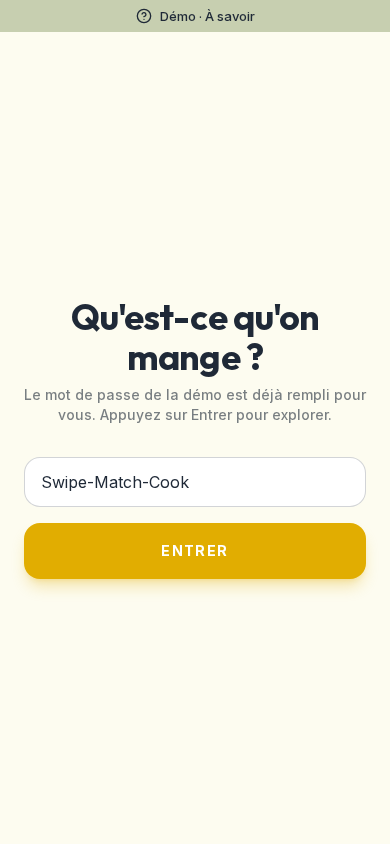
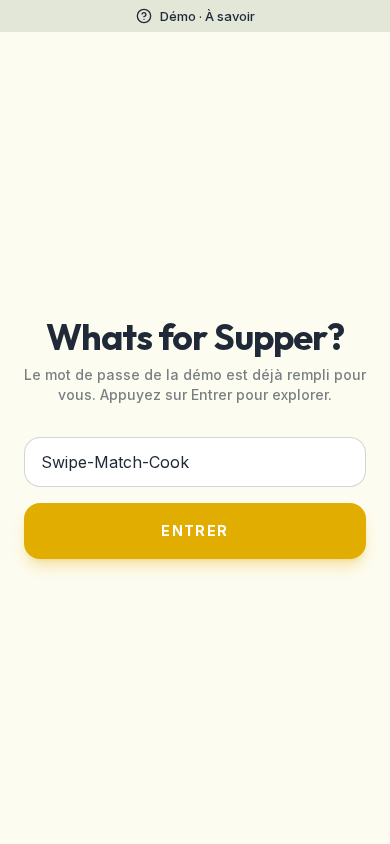
fix: preserve app name in English and French entry headings

Changed region(s): [[0.0615, 0.3389, 0.9538, 0.7085], [0.0, 0.0, 1.0, 0.0616], [0.9231, 0.5237, 0.9538, 0.5545]]

diff --git a/pwa/src/app/(auth)/welcome/page.test.tsx b/pwa/src/app/(auth)/welcome/page.test.tsx
@@ -20,6 +20,7 @@ vi.mock('@/lib/auth', () => ({
   setHearthCookie: mocks.cookie,
 }));
 import WelcomePage from './page';
+import LandingPage from '../../page';
 import { InstallIdentityProvider } from '@/components/identity/IdentityHint';
 import { LocaleProvider, useLocale } from '@/components/common/LocaleProvider';
 import { useDemoContextVisit } from '@/store/demoContextStore';
@@ -59,6 +60,22 @@ beforeEach(() => {
   };
 });
 afterEach(() => vi.unstubAllEnvs());
+
+describe('entry branding', () => {
+  it.each(['en', 'fr'])('keeps the exact app name on landing and Welcome in %s', async (locale) => {
+    localStorage.setItem('locale', locale);
+    const landing = render(<LandingPage />);
+    expect(screen.getByRole('heading', { level: 1, name: 'Whats for Supper?' })).toBeVisible();
+    landing.unmount();
+    await welcome();
+    expect(screen.getByRole('heading', { level: 1, name: 'Whats for Supper?' })).toBeVisible();
+    expect(screen.getByTestId('welcome-helper')).toHaveTextContent(
+      locale === 'en'
+        ? 'The demo passphrase is filled in for you. Tap Enter to explore.'
+        : 'Le mot de passe de la démo est déjà rempli pour vous. Appuyez sur Entrer pour explorer.'
+    );
+  });
+});
 
 describe('Welcome public prefill', () => {
   it('uses server identity despite browser non-demo health, with no automatic authentication', async () => {

diff --git a/pwa/e2e/install-identity.spec.ts b/pwa/e2e/install-identity.spec.ts
@@ -112,7 +112,7 @@ test('welcome identity renders with every backend request unavailable in light a
     await page.emulateMedia({ colorScheme });
     await page.goto('/welcome');
     await expect(page).toHaveTitle(name);
-    await expect(page.getByTestId('welcome-title')).toHaveText("What's For Supper?");
+    await expect(page.getByTestId('welcome-title')).toHaveText('Whats for Supper?');
     await expect(page.getByTestId('passphrase-input')).toBeVisible();
     const hint = page.getByTestId(demo ? 'demo-context-band' : 'identity-hint');
     if (variant === 'production') {
@@ -168,9 +168,7 @@ for (const locale of ['en', 'fr'] as const) {
         await page.goto(route);
         await expect(page).toHaveURL(new RegExp(`${route}$`));
         if (route === '/welcome') {
-          await expect(page.getByTestId('welcome-title')).toHaveText(
-            locale === 'fr' ? "Qu'est-ce qu'on mange ?" : "What's For Supper?"
-          );
+          await expect(page.getByTestId('welcome-title')).toHaveText('Whats for Supper?');
           await expect(page.getByTestId('passphrase-input')).toHaveValue('');
           await expect(page.getByTestId('welcome-enter-btn')).toBeDisabled();
         } else if (route === '/planner') {

diff --git a/pwa/e2e/welcome-demo.spec.ts b/pwa/e2e/welcome-demo.spec.ts
@@ -117,7 +117,12 @@ for (const locale of ['en', 'fr'] as const) {
       test.skip(!prefill, 'Public Demo visual/lifecycle matrix has its own server configuration');
       await page.setViewportSize({ width, height });
       await page.addInitScript((language) => localStorage.setItem('locale', language), locale);
+      await page.goto('/');
+      await expect(
+        page.getByRole('heading', { level: 1, name: 'Whats for Supper?', exact: true })
+      ).toBeVisible();
       await page.goto('/welcome');
+      await expect(page.getByTestId('welcome-title')).toHaveText('Whats for Supper?');
       await expect(page.getByTestId('passphrase-input')).toHaveValue('Swipe-Match-Cook');
       const helper =
         locale === 'en'

diff --git a/pwa/src/app/(auth)/welcome/WelcomeForm.tsx b/pwa/src/app/(auth)/welcome/WelcomeForm.tsx
@@ -58,7 +58,7 @@ export function WelcomeForm({ initialPassphrase }: { initialPassphrase: string |
         {!demo && <IdentityHint className="right-4 top-[calc(env(safe-area-inset-top)+1rem)]" />}
         <div className="text-center animate-in fade-in slide-in-from-bottom-4 duration-700">
           <h1 className="text-4xl font-bold text-indigo tracking-tight" data-testid="welcome-title">
-            {t('auth.welcomeTitle', "What's For Supper?")}
+            {t('auth.welcomeTitle', 'Whats for Supper?')}
           </h1>
           <p
             id="welcome-helper"

diff --git a/pwa/src/app/page.tsx b/pwa/src/app/page.tsx
@@ -14,7 +14,7 @@ export default function LandingPage() {
     <main className="flex min-h-dvh flex-col items-center justify-center gap-8 px-6 py-12">
       <div className="text-center">
         <h1 className="text-4xl font-bold text-indigo">
-          {t('landing.title', "What's for Supper?")}
+          {t('landing.title', 'Whats for Supper?')}
         </h1>
         <p className="mt-3 text-lg text-charcoal-400">
           {t('landing.subtitle', 'Capture recipes, plan your week, discover what to cook next.')}

diff --git a/openspec/changes/demo-experience-refinement/tasks.md b/openspec/changes/demo-experience-refinement/tasks.md
@@ -67,3 +67,19 @@ For this five-file planning PR, behavior red/green and runtime/device checks are
 - [x] 4.1 Add the household-only `Public Demo Welcome regression` step after the unchanged ordinary capability suite, reusing the existing optimized build and dedicated config. Scope `WFS_WELCOME_DEMO=true` and the deliberately public `WFS_WELCOME_SECRET=Swipe-Match-Cook` to that step. Use `--output=test-results/welcome-demo` so the public run preserves ordinary private-suite results. Protect step scope, artifact reuse, private job credential and output separation in the existing pipeline regression suite. Evidence: `task test:agent` first failed only the new missing-step assertion (203 tests, one expected failure, one existing skip), then passed (203 tests, one existing skip). Under the actual CI compile settings (`NEXT_PUBLIC_API_BASE_URL`/`API_INTERNAL_URL=http://127.0.0.1:5001`, household suite, existing feature flags), the existing `task test:e2e:ci -- --config=e2e/welcome-demo.playwright.config.ts --output=test-results/welcome-demo` qualification passed 14 tests with the one intentional public-run disclosure-negative skip. A marker and existing blob SHA proved private artifacts survived. Log: `/tmp/wfs-ci-public-runtime.log`. The workflow itself adds no build, backend/service, dependency, deployment or product behavior; the local verification rebuild only qualified the already-existing build path with CI's baked URL.
 
 This follow-up was explicitly requested by review to close the public-path CI gap. It changes only the existing validation workflow, its existing pipeline test, and these evidence documents. Application files and inspected screenshot bytes remain identical to implementation head `2f93ac8fda6f4b813323ef004068f2d78556296a`. The final four-path harness/documentation verifier record and new immutable CI head are recorded in the PR description after publication.
+
+## 4. Approved brand-title correction
+
+Alex explicitly confirmed `Whats for Supper?` (including the question mark) at 21:00 UTC on 2026-10-26. The French translations predate this PR; this is an approved focused correction, not a regression attributed to this implementation. Preserve PR #354's current ready-for-review state.
+
+- [x] 4.1 Set only EN/FR `landing.title` and `auth.welcomeTitle` plus their component fallbacks to `Whats for Supper?`. Update meaningful rendered-heading expectations first; preserve surrounding copy, ordinary French meal questions and all authentication behavior. Regenerate and inspect affected phone/iPad EN/FR screenshot evidence from an isolated optimized build, retain applicable Task/OpenSpec and final-head CI evidence below and in the same PR.
+
+Title-correction evidence: rendered EN/FR landing/Welcome tests first failed for the old heading (**2 failed, 18 passed**, `/tmp/wfs-brand-red.log`), then passed **20/20** (`/tmp/wfs-brand-green.log`). The first optimized build caught an unsupported RTL assertion option in the new test, which was corrected without product changes; the subsequent optimized public suite passed **14 with one intentional private-canary skip** (`/tmp/wfs-brand-browser.log`, build `79B2g68Sa5FQcieayRRMZ`). Both entry routes are asserted at all existing EN/FR viewport sizes. The existing private installation-identity suite passed **4/4** (`/tmp/wfs-brand-install.log`); its two affected Welcome-title expectations changed, while document metadata expectations stayed unchanged. All 12 regenerated raw phone/iPad captures were viewed. Final Task/CI results are recorded after frozen-content validation.
+
+First title-correction aggregate `.task/agent-finish/runs/c70dababbb484ab8943f7b98b6b55fb6.json` remains failed: .NET lint could not create its SDK toolpath sentinel under read-only `/home/agent/.dotnet`, and repository content identity changed after the unit cache warmed, so later checks were correctly left unrun. Strict OpenSpec (35/35), harness, formatting, types and 1,070 unit tests passed within that attempt. The SDK marker was initialized using scoped tooling permission. No freshness exemption or harness change is authorized or applied. The next aggregate uses unchanged application/image inputs, corrected evidence build-ID spelling and a single ADDED-requirements section.
+
+Final local title-correction aggregate: `.task/agent-finish/runs/b309393b6c514bf7943b194c6559ec8e.json` has **stable content**, and documentation, strict OpenSpec **35/35**, harness (**202 passed, one existing skip**), lint/format/types, **1,070 unit tests**, **1,249 API tests** (154 prerequisite/manual skips), Kiota/static contracts, isolated loopback endpoint parity and **178 PostgreSQL tests with zero skips** all passed. Database record: `.task/database-tests/runs/c606ce20188b426c9cf02ba2f538619d/result.json`; its disposable container and owned fixtures were removed. The reviewed per-command filesystem grant covered the SDK/test runners' own temporary home-directory paths; no repository configuration, HOME override, test/freshness rule or deployed credential changed.
+
+That aggregate remains **blocked**, not green: the broad development browser child hit its existing **900-second** limit after approximately **305/390** cases and was stopped without retry. Both long 126/180-recipe cycle cases passed (4.9/8.8 minutes). One existing cook-mode 375px case timed out before the limit while waiting for the ingredient toggle; its saved snapshot remained on Home. Its unchanged test then passed **first attempt, no retries, 4.3s** on the existing isolated optimized build using a temporary loopback config (`/tmp/wfs-brand-cook/qualification.config.ts`, `/tmp/wfs-brand-cook-qualified.log`). That qualifies the case in that runtime, not the full stopped browser child or a proven root cause. No cook-mode or harness fix was made. The full optimized suites remain required on the final published CI head before final acceptance.
+
+Only the generated Welcome unit transform (`pwa/node_modules/.vitest-cache/d1a85938bdaaa962eaf0841dcd56570c5d99e0ee`, whose source filename is Welcome's page test) and generated TypeScript build info were observed warming around the first aggregate; its exact original digest delta is not reconstructible. No source outside the explicit title/evidence path set changed. The second aggregate's content identity passed. Final documentation-only verification and immutable published-head/CI results are recorded in the PR description. PR #354's current ready-for-review state is preserved; no merge, deployment, spec sync or archive.

diff --git a/docs/evidence/demo-experience-refinement/README.md b/docs/evidence/demo-experience-refinement/README.md
@@ -11,7 +11,7 @@ These 12 captures were generated and actually inspected in this cloud task, usin
 | FR | 390×844 phone | [login](fr-phone-login.png) | [dialog](fr-phone-dialog.png) | [home](fr-phone-home.png) |
 | FR | 820×1180 iPad | [login](fr-ipad-login.png) | [dialog](fr-ipad-dialog.png) | [home](fr-ipad-home.png) |
 
-Built from main baseline `e680fb7966978da3fbde25453a241c7e69e2b2a1` plus this PR's implementation; isolated build ID `CqqR6qKjo65mS_2BmhhC5`. The build used Demo disabled and a synthetic nonpublic build credential; the same build ran with Demo enabled and the public constant. Subsequent runs used a synthetic custom secret and disabled Demo without rebuilding. Source control's baked release artifact remains stable; no deployment credentials were touched.
+Built from main baseline `e680fb7966978da3fbde25453a241c7e69e2b2a1` plus this PR's implementation; isolated build ID `79B2g68Sa5FQcieayRRMZ`. The build used Demo disabled and a synthetic nonpublic build credential; the same build ran with Demo enabled and the public constant. Subsequent runs used a synthetic custom secret and disabled Demo without rebuilding. Source control's baked release artifact remains stable; no deployment credentials were touched.
 
 The command was `CI=true task test:e2e:ci -- --config=e2e/welcome-demo.playwright.config.ts`, with the repository Node/npm pins, synthetic `WFS_WELCOME_DEMO` / `WFS_WELCOME_SECRET`, loopback-only backend and `PLAYWRIGHT_BROWSERS_PATH=/tmp/wfs-browsers`. The dedicated server refuses process reuse; browser traffic permits only its explicit loopback origin. Home server fetches fail against the deliberately unavailable loopback backend, then existing schema-compliant browser fixtures provide a synthetic empty household. This is UI/lifecycle evidence, not live-backend showcase qualification. No screenshot-specific visual redesign was made.
 
@@ -36,4 +36,12 @@ The lint follow-up moved the existing primary dismissal button into DemoDialog i
 
 The household CI job now runs the existing dedicated public Welcome config after the ordinary private capability suite, using the shared optimized artifact. Only that step receives `WFS_WELCOME_DEMO=true` and the deliberately public `WFS_WELCOME_SECRET=Swipe-Match-Cook`. Its nested output directory preserves the ordinary suite's results/blob; both sets of files are retained by the existing household artifact upload. A public regression fails that household job and therefore the existing E2E gate. No additional CI build, backend/service or dependency was added.
 
-The public invocation was qualified locally with CI's baked `http://127.0.0.1:5001` API URL, household selection and existing feature flags: **14 passed, one intentional private-canary negative-control skip**, and the ordinary output-preservation marker plus existing blob checksum remained unchanged. The existing private suite still covers disclosure/manual entry. The pipeline test observed the missing-step red and then passed with the scoped integration. These are additional CI-integration checks; the inspected images above retain their recorded original build identity and unchanged application bytes.
+The public invocation was qualified locally with CI's baked `http://127.0.0.1:5001` API URL, household selection and existing feature flags: **14 passed, one intentional private-canary negative-control skip**, and the ordinary output-preservation marker plus existing blob checksum remained unchanged. The existing private suite still covers disclosure/manual entry. The pipeline test observed the missing-step red and then passed with the scoped integration. These are historical CI-integration checks from head `3638d1f`; the title-correction captures below supersede the original image build identity.
+
+## Approved title correction
+
+On 26 October 2026 at 21:00 UTC, Alex confirmed the exact branding literal `Whats for Supper?`, including the question mark, for landing and Welcome in both languages. The French translated headings existed on main before this PR. Only `landing.title`, `auth.welcomeTitle` and their component fallbacks changed; localized surrounding copy, shared explanation prose and ordinary meal questions were retained.
+
+The same isolated optimized-build command was run again with CI's baked loopback API URL and synthetic settings: **14 passed, one intentional private-canary skip**. The existing matrix now asserts the exact rendered landing and Welcome headings in EN/FR at all five viewport sizes before exercising explicit entry. The 12 phone/iPad login, explanation and Home captures above were regenerated and actually viewed after the correction; login headings have the requested spelling and question mark without visible clipping. Explanation and Home retain their existing copy. The separate private installation-identity suite also passed **4/4**. This remains synthetic Chromium UI evidence with the physical-device limits above.
+
+The correction's final local Task run retained stable content and passed strict OpenSpec, lint/format/types, 1,070 unit tests, 1,249 API tests, static contracts, isolated endpoint parity and all 178 PostgreSQL tests. Its broad development browser child reached the existing 900-second limit around case 305/390, so the aggregate is explicitly blocked, not green. One earlier cook-mode 375px timeout passed unchanged on the isolated optimized build with retries disabled; no cook-mode or harness source changed. Full final-head optimized CI results and precise verifier records are in the PR description. The focused public/title and private suites above passed independently; neither their screenshots nor their success relabels the stopped broad child.

diff --git a/openspec/changes/demo-experience-refinement/specs/demo-household/spec.md b/openspec/changes/demo-experience-refinement/specs/demo-household/spec.md
@@ -191,3 +191,12 @@ Welcome SHALL show the localized demo-prefill helper only when the server guard 
 #### Scenario: Locale and failed attempt preserve provenance
 - **WHEN** locale changes or submission fails while an actual prefill remains unedited
 - **THEN** the helper retains its prefill meaning in the selected language without refilling, resubmitting or hiding failure feedback
+
+### Requirement: Preserve the app name across locales
+
+The landing and Welcome branding headings SHALL display the exact literal `Whats for Supper?` in English and French, including the question mark. This applies only to `landing.title`, `auth.welcomeTitle` and their component fallbacks; ordinary localized meal questions and surrounding copy SHALL retain their existing meaning.
+
+#### Scenario: English or French entry heading
+- **WHEN** the visitor opens the landing page or Welcome in English or French
+- **THEN** its branding heading is exactly Whats for Supper?
+- **AND** localized helper text and explicit household entry behavior remain unchanged
